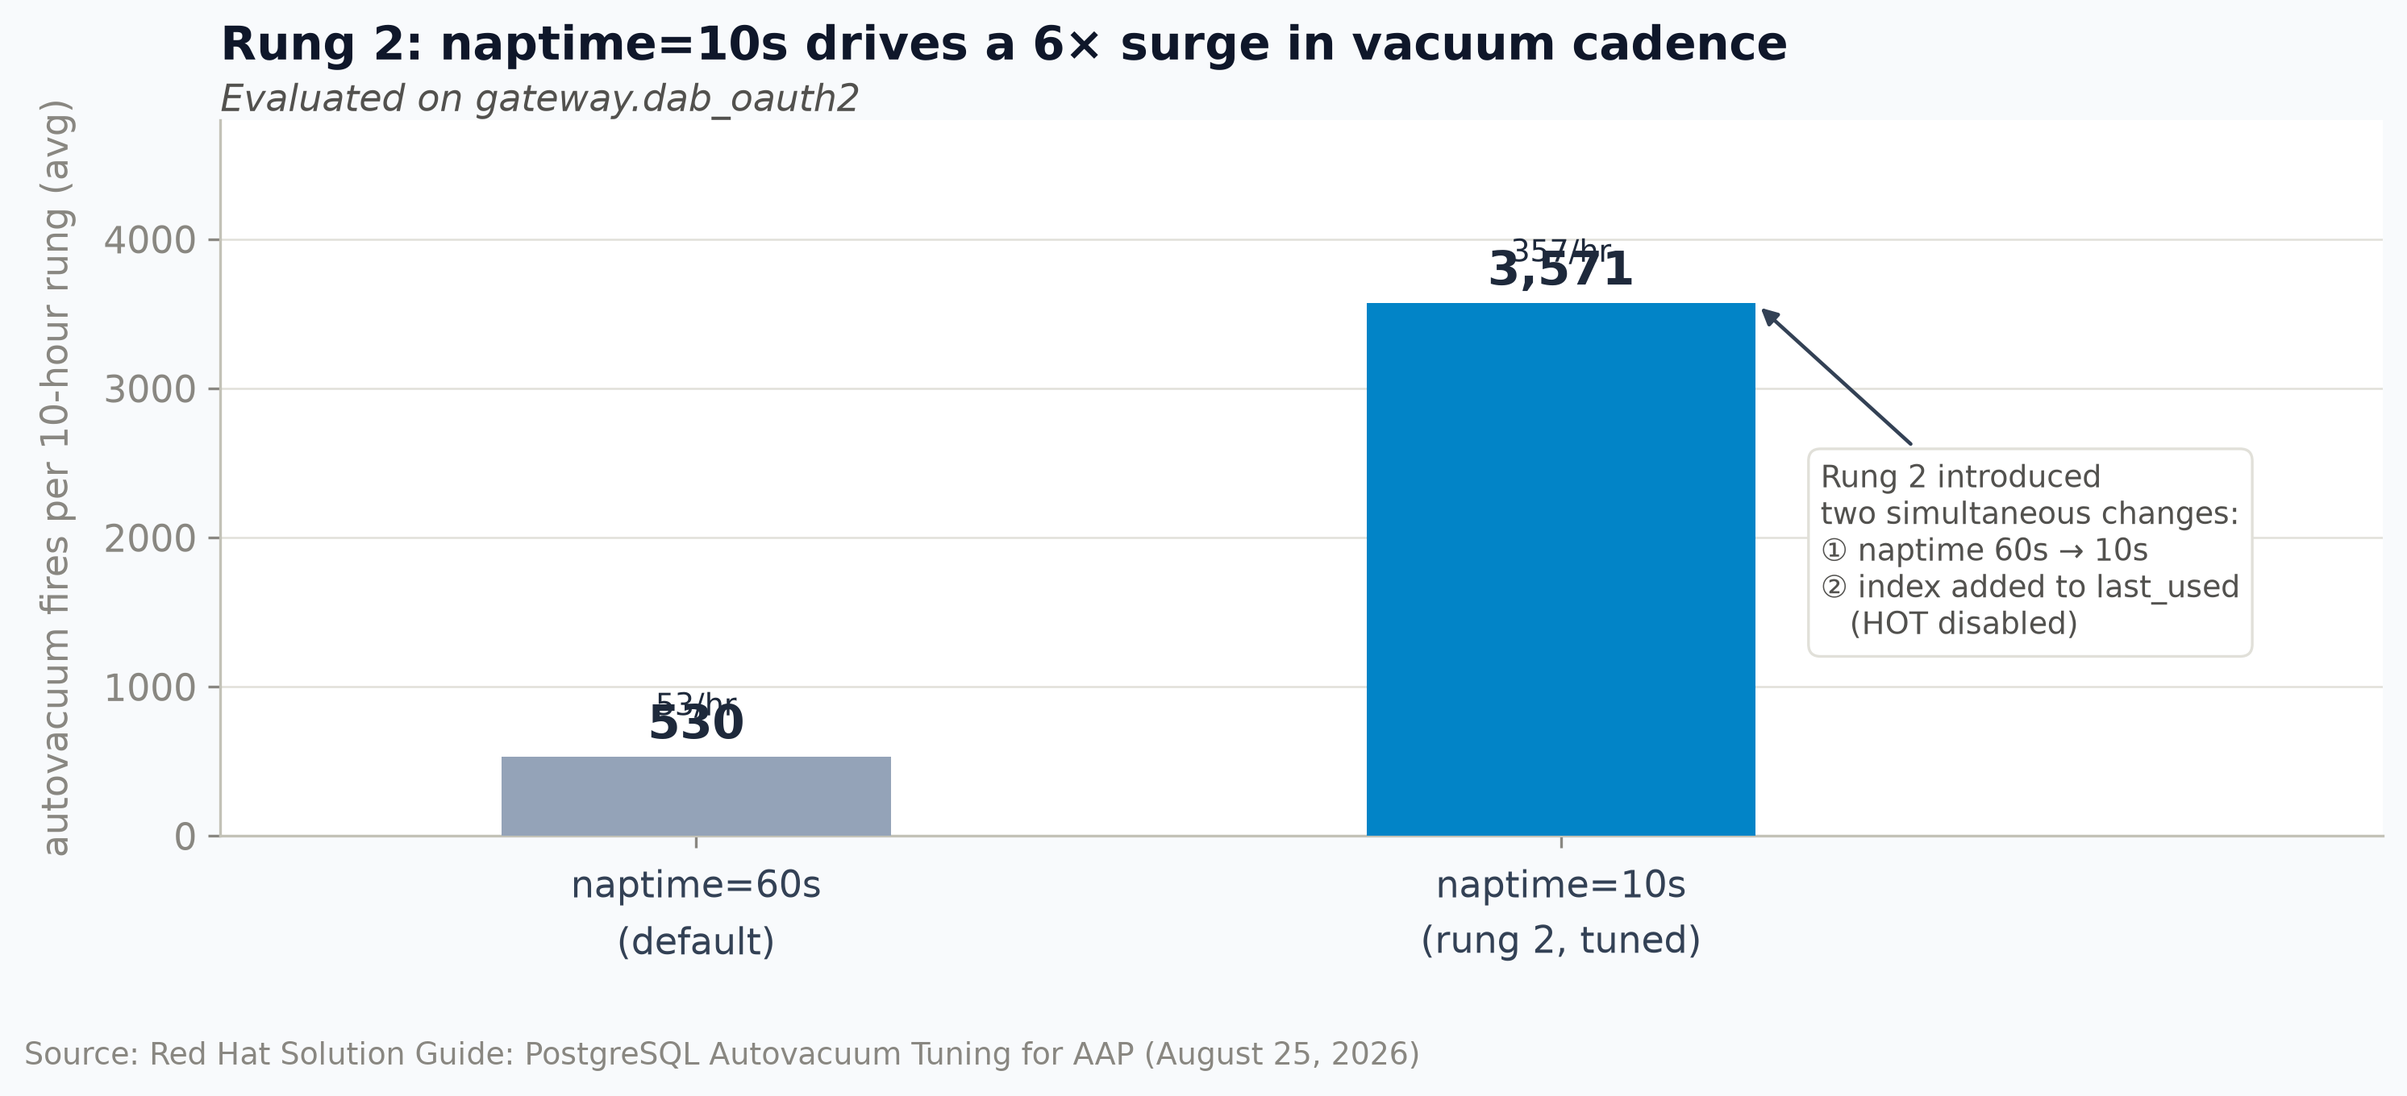
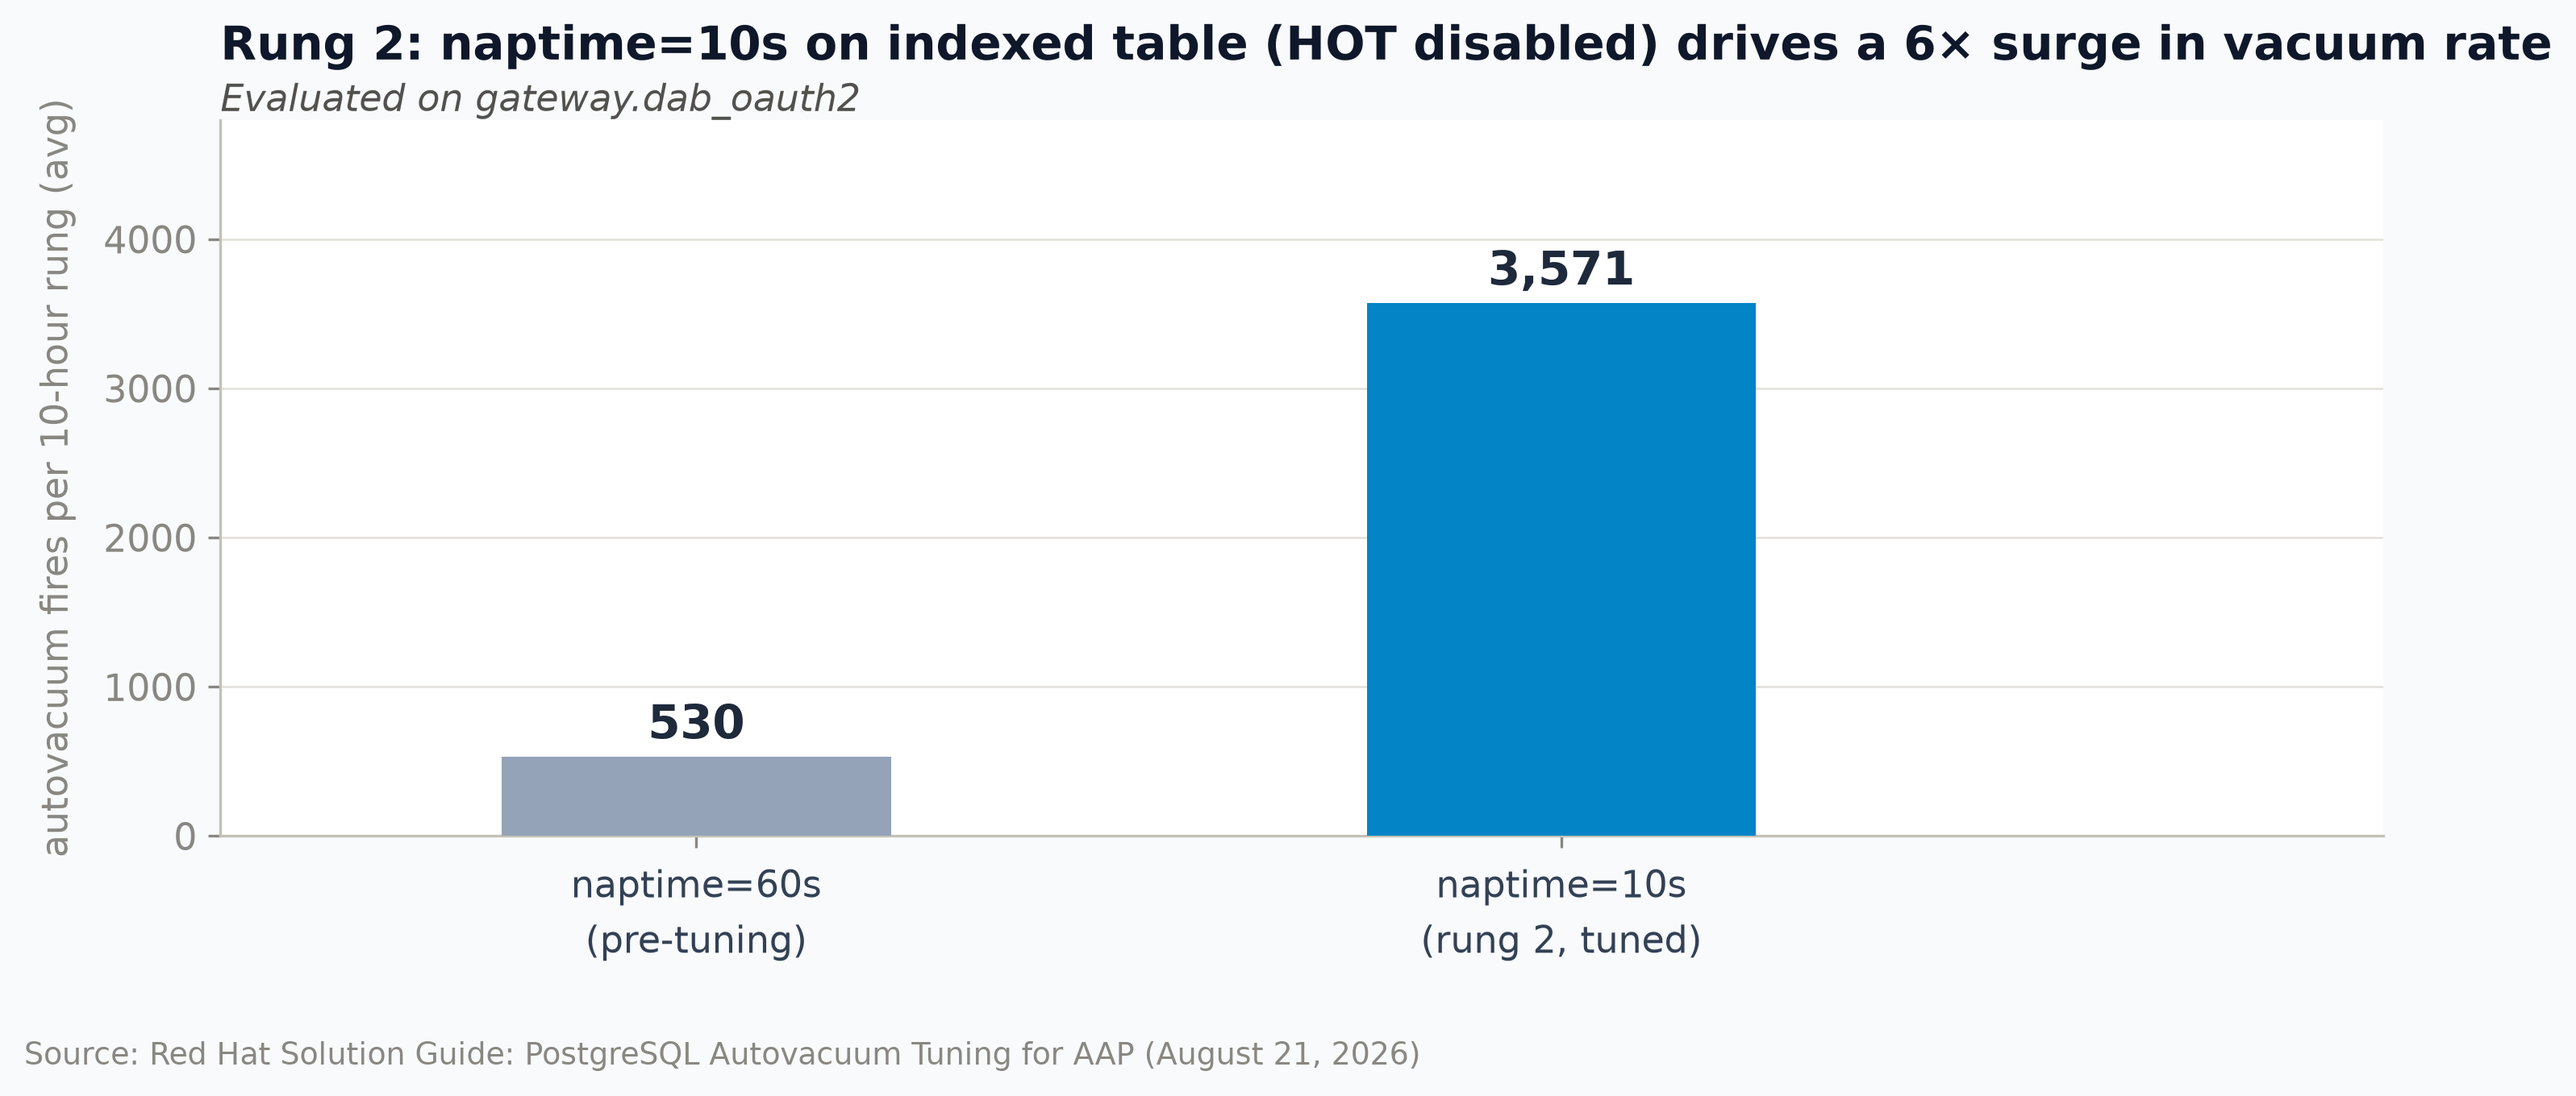
polish: decision card clarity, rung chart updates
- Rung 1 "Apply when" now cites observable evidence (dead_pct > 5%
   under default settings) so the card reads correctly whether or not
   the fix has already been applied
 - Rung 2 decision card adds Check row with hot_ratio formula;
   chart title reframed to name HOT-disabled as the precondition
 - Rung 3 chart adds outcome annotation (dead_pct hit 0.0% at T=8hr)
 - Rung 1 chart layout fixed to prevent subtitle/panel title overlap
 - Updated all four chart PNGs

diff --git a/README-AAP-PostgreSQL-Autovacuum-Tuning.md b/README-AAP-PostgreSQL-Autovacuum-Tuning.md
@@ -115,7 +115,7 @@ require it.
 
 ## Rung 2: Increase Check Frequency
 
-![Rung 2: naptime=10s drives a 6× surge in vacuum cadence on high-churn tables](assets/images/AAP-PostgreSQL-Autovacuum-Tuning-Rung2.png)
+![Rung 2: naptime=10s on indexed table (HOT disabled) drives a 6× surge in vacuum rate](assets/images/AAP-PostgreSQL-Autovacuum-Tuning-Rung2.png)
 
 **Apply this if:** You have a table where a frequently-updated column is also indexed. If
 this is the case, HOT (Heap Only Tuple) optimization is disabled on that table. HOT allows
@@ -230,8 +230,8 @@ For example, `main_hostmetric` at peak: 47 pages × 21 = 987, rounded to 1,000.
 **Three possible outcomes — all informative:**
 
 | Outcome | Signal | Interpretation |
-|---|---|---|
-| **Positive** | Same fire rate; dead_pct reaches 0 | cost_limit was the bottleneck; keep the setting |
+|---------|---------------------------------------|-----------------|
+| **Positive** | Same fire rate; dead_pct → 0 | cost_limit was the bottleneck; keep the setting |
 | **Flat** | Fire rate and dead_pct unchanged | cost_limit is not the issue; look elsewhere |
 | **Warning** | CPU spike without improvement | cost_limit too aggressive for available I/O headroom; dial back |
 
@@ -309,8 +309,8 @@ reach 100% before the pass ends. If it does not, increase `cost_limit` and re-ch
 
 ## Related Guides
 
-- [AAP HA/DR on OpenShift with CloudNativePG](README-AAP-HA-DR-OpenShift.md) — the deployment topology this autovacuum tuning applies to
-- [High-Availability AAP with EDB PostgreSQL DR](README-EDB.md) — the EDB variant of the same HA/DR problem
+- [AAP HA/DR on OpenShift with CloudNativePG](https://ansible-tmm.github.io/solution-guides/README-AAP-HA-DR-OpenShift) — the deployment topology this autovacuum tuning applies to
+- [High-Availability AAP with EDB PostgreSQL DR](https://ansible-tmm.github.io/solution-guides/README-EDB) — the EDB variant of the same HA/DR problem
 
 ---
 
